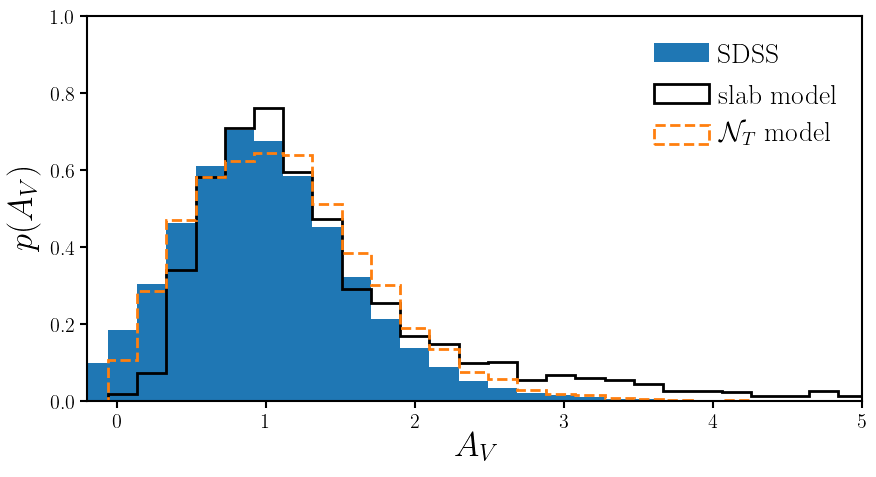
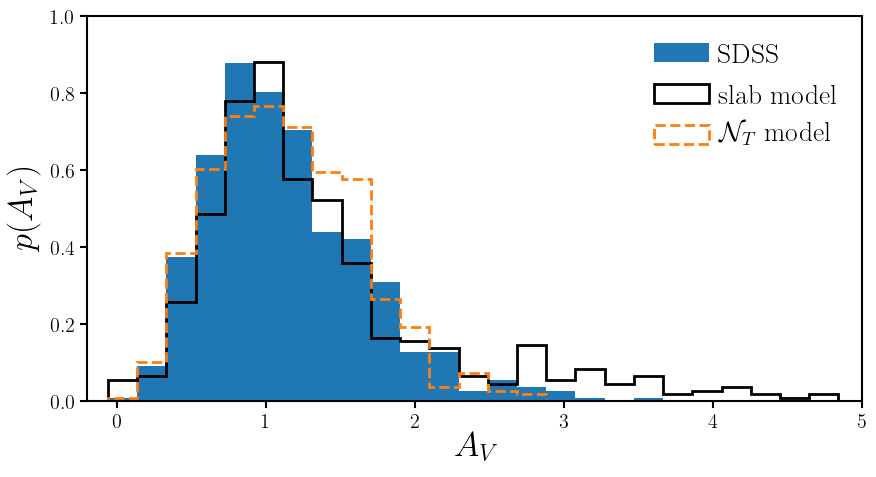
mpajhu Av values are now spherematched to SDSS catalog

Changed region(s): [[0.0925, 0.1174, 0.4315, 0.8512], [0.339, 0.4109, 0.8014, 0.8512], [0.8322, 0.7925, 0.9863, 0.8512]]

diff --git a/doc/paper.py b/doc/paper.py
@@ -378,10 +378,14 @@ def slab_tnorm_comparison():
     observed SDSS. 
     '''
     from scipy.stats import truncnorm
+    from pydl.pydlutils.spheregroup import spherematch
     # MPA-JHU Av from SED fitting 
-    sdss_av, gal_type = np.loadtxt(os.path.join(dat_dir, 'obs', 'SDSS_Av.txt'),
-            unpack=True, usecols=[1, 2]) 
-    sdss_av = sdss_av[gal_type == 1]
+    mpajhu_av, gal_type, mpajhu_ra, mpajhu_dec  = np.loadtxt(os.path.join(dat_dir, 'obs', 'SDSS_Av.txt'),
+            unpack=True, usecols=[1, 2, -2, -1]) 
+    starforming = (gal_type == 1) 
+    mpajhu_av = mpajhu_av[starforming]
+    mpajhu_ra = mpajhu_ra[starforming] 
+    mpajhu_dec = mpajhu_dec[starforming]
 
     # read in SDSS (Jeremy's catalog) 
     fsdss = os.path.join(dat_dir, 'obs', 'tinker_SDSS_centrals_M9.7.valueadd.hdf5')
@@ -389,28 +393,37 @@ def slab_tnorm_comparison():
     
     R_mag   = sdss['mr_tinker'][...]
     
-    Rlim = (R_mag < -20.)
-    logms   = np.log10(sdss['ms_tinker'][...])[Rlim]
-    logsfr  = sdss['sfr_tinker'][...][Rlim] + logms
+    Rlim = (R_mag < -20.) & (sdss['RA'][...] != -999.) & (sdss['DEC'][...] != -999.)
+    ra      = sdss['RA'][...][Rlim] 
+    dec     = sdss['DEC'][...][Rlim] 
+
+    # match MPAJHU star forming AV to SDSS  
+    match = spherematch(ra, dec, mpajhu_ra, mpajhu_dec, 0.000277778)
+    m_sdss = match[0] 
+    m_mpajhu = match[1] 
+    print('%i matches out of %i, %i SDSS R < -20.' % (len(m_sdss), np.sum(Rlim), np.sum(R_mag < -20.))) 
+
+    logms   = np.log10(sdss['ms_tinker'][...])[Rlim][m_sdss]
+    logsfr  = sdss['sfr_tinker'][...][Rlim][m_sdss] + logms
 
     #Eq. 14 of Somerville+(1999) 
     # randomly sample the inclinatiion angle from 0 - pi/2 
-    incl = np.random.uniform(0., 0.5*np.pi, size=np.sum(Rlim))
+    incl = np.random.uniform(0., 0.5*np.pi, size=len(m_sdss))#np.sum(Rlim))
     sec_incl = 1./np.cos(incl) 
 
-    tauV = np.clip(2. * (logms - 10.) + 1 * logsfr + 0.5, 1e-3, None) 
+    tauV = np.clip(2. * (logms - 10.) + 1 * logsfr + 0.15, 1e-3, None) 
     slab_AV = -2.5 * np.log10((1.0 - np.exp(-tauV * sec_incl)) / (tauV * sec_incl))
 
     # tnorm AV 
-    mu_Av   = np.clip(-1*(logms - 10.) + 2., 0., None) 
-    sig_Av  = np.clip(-0.5 * (logms - 10.) + 1., 0.1, None) # can't be too narrow
+    mu_Av   = np.clip(-1*(logms - 10.) + 1.75, 0., None) 
+    sig_Av  = np.clip(-0.5 * (logms - 10.) + 0.75, 0.1, None) # can't be too narrow
 
     tnorm_AV = [truncnorm.rvs((0. - _mu_Av)/_sig_Av, np.inf, loc=_mu_Av,
             scale=_sig_Av)  for _mu_Av, _sig_Av in zip(mu_Av, sig_Av)]
 
     fig = plt.figure(figsize=(10,5))
     sub = fig.add_subplot(111) 
-    _ = sub.hist(sdss_av, range=(-3., 7), bins=51, density=True, 
+    _ = sub.hist(mpajhu_av[m_mpajhu], range=(-3., 7), bins=51, density=True, 
             color='C0', linestyle='-', histtype='stepfilled', label='SDSS')
     _ = sub.hist(np.array(slab_AV), range=(-3., 7), bins=51, density=True, 
             color='k', linestyle='-', linewidth=2, histtype='step', 
